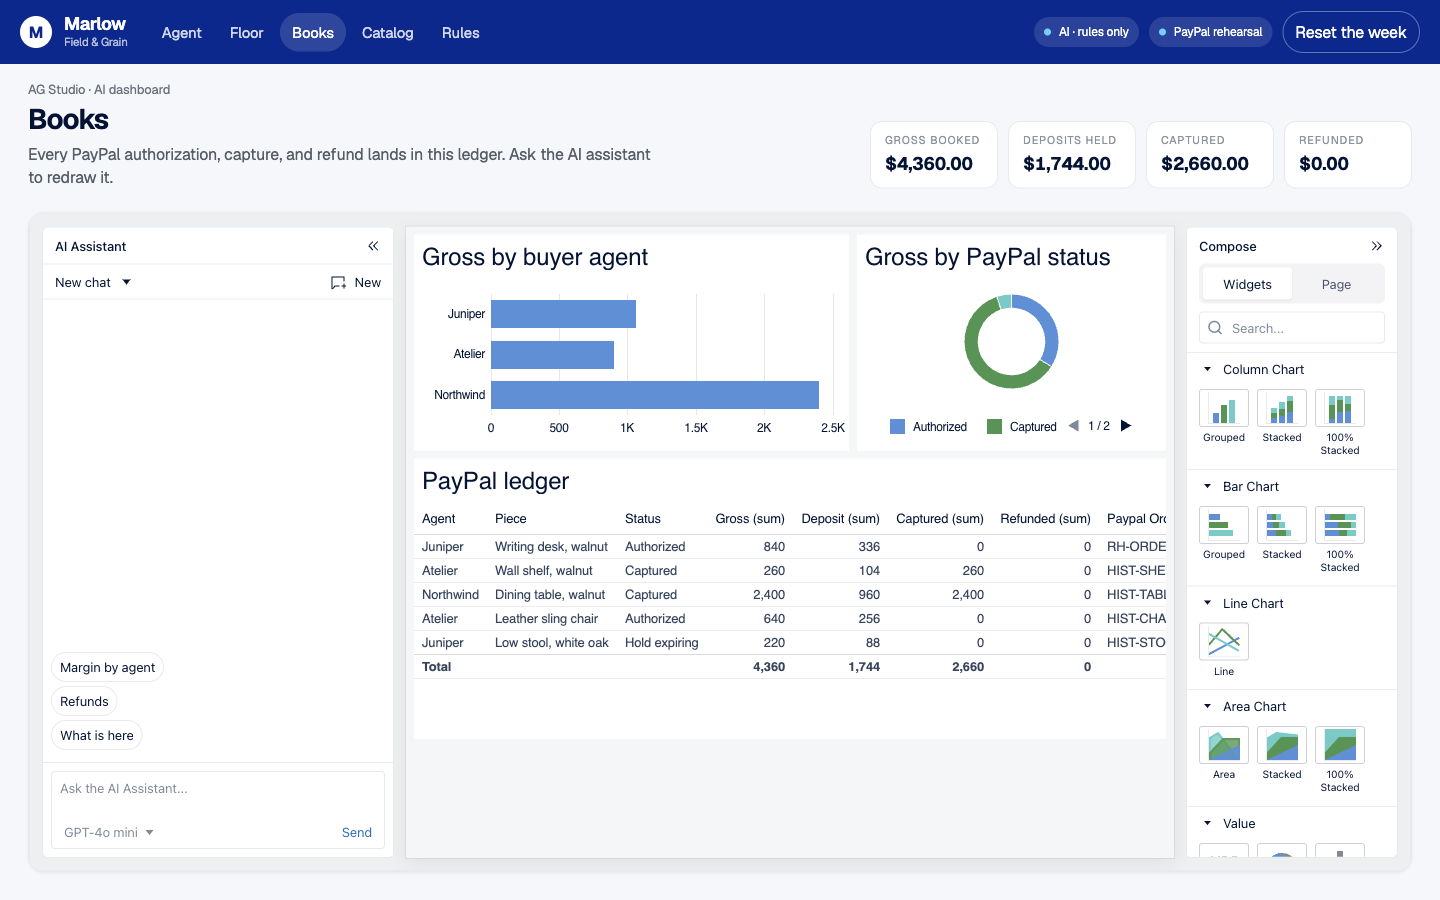
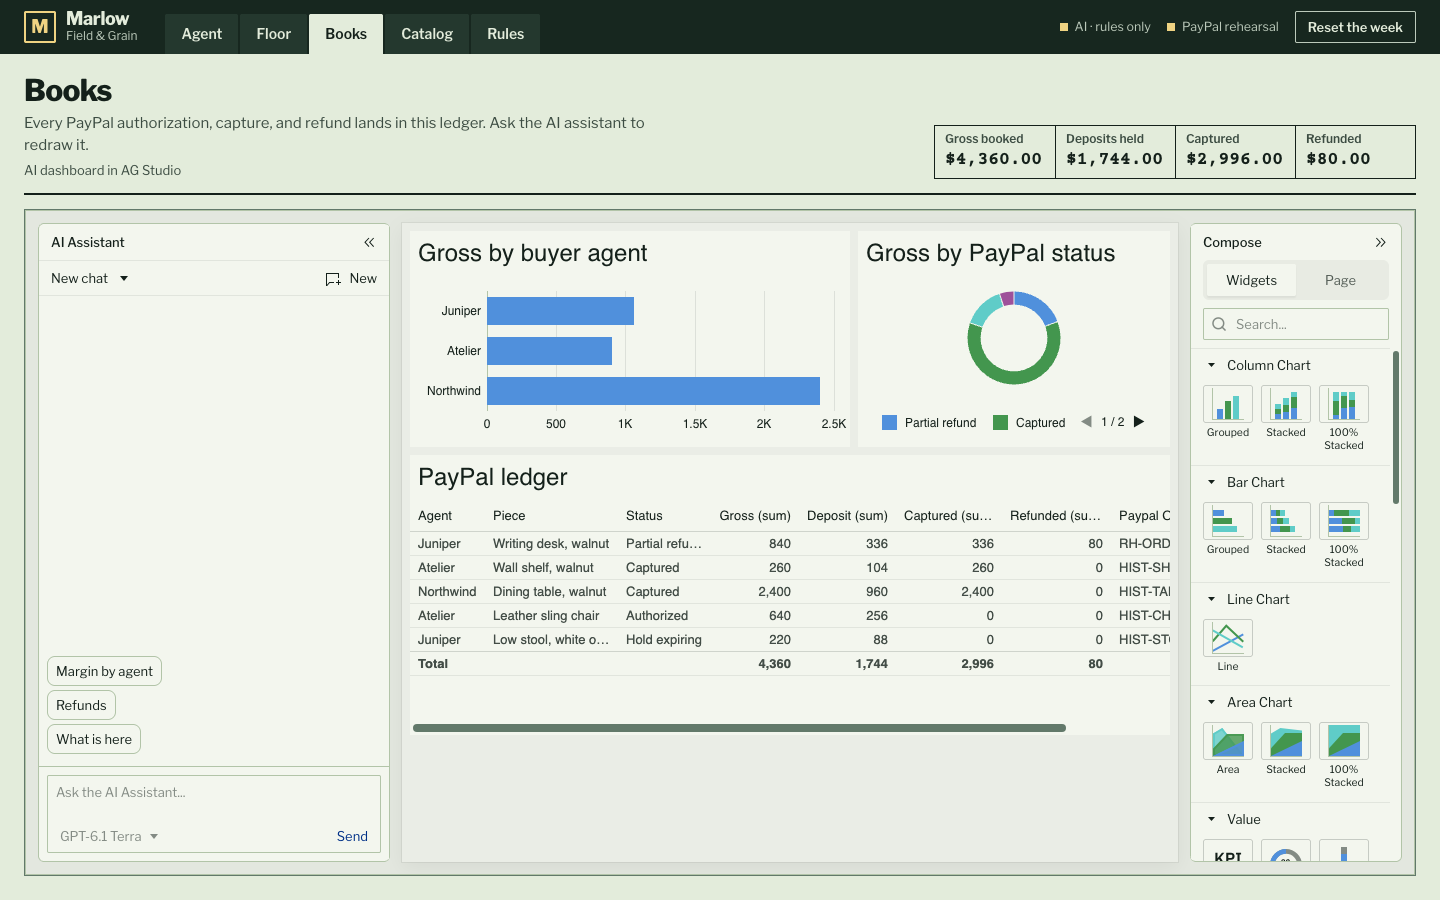
Match the README and demo script to the code

diff --git a/README.md b/README.md
@@ -1,6 +1,6 @@
 # Marlow
 
-Marlow is a shop agent for merchants whose buyers are AI agents. Shop policy sets the price, a signed mandate admits the buyer, and PayPal holds the deposit.
+Marlow is a shop agent for merchants whose buyers are AI agents. Shop policy sets the price, a mandate signed by the buyer admits it, and PayPal holds the deposit.
 
 Built for the [PayPal AI Hackathon](https://paypalaihackathon.devpost.com/).
 
@@ -41,13 +41,15 @@ The Agent page opens with six demo options:
 | Full sale: walnut writing desk for Juniper | The checks pass, PayPal holds a $336 deposit, the floor moves, then capture and refund |
 | Second buyer: elm bench for Atelier | The same rules for a different agent and piece, with a $288 deposit |
 | Browse: anything in white oak? | A plain question returns four pieces and their prices. No payment |
-| Unregistered agent | Drift asks for the desk. The mandate check refuses it and PayPal stays closed |
+| Unregistered agent | Drift signs with a real key that the shop has not registered. The mandate check refuses it and PayPal stays closed |
 | Over budget | Northwind wants the $2,400 dining table with a $2,000 ceiling. Policy holds the price and PayPal stays closed |
 | Card number | A pasted card number is masked and refused |
 
 1. Try the three guardrails first and watch the red checks.
-2. Click **Full sale**. The checks pass and the PayPal card shows a $336 deposit. Channel3 and Kernel show grey chips until their keys are set, because they ran on sample data.
-3. Hold, capture, and refund the deposit from the card. Open **Floor** to see the desk take Thursday's mill, and **Books** to see the ledger.
+2. Click the **Full sale** row. The checks pass and the job ticket shows a $336 deposit. Channel3 and Kernel show grey chips until their keys are set, because they ran on sample data.
+3. Hold, capture, and refund the deposit from the job ticket. Open **Floor** to see the desk take Thursday's mill, and **Books** to see the ledger.
+
+Each row signs its own mandate. To type a request, choose a buyer under **Buying as** first. A typed request with no buyer has no signed mandate, so the shop refuses the sale.
 
 With no keys, PayPal calls run in rehearsal mode with `RH-` ids, so anyone can clone the repo and click through the whole flow offline. Add sandbox keys and the same buttons call the PayPal sandbox:
 
@@ -56,6 +58,7 @@ cp .env.example .env.local
 # PAYPAL_CLIENT_ID, PAYPAL_CLIENT_SECRET, NEXT_PUBLIC_PAYPAL_CLIENT_ID from
 # https://developer.paypal.com/dashboard/applications/sandbox
 # OPENAI_API_KEY to let the model choose the tools
+# OPENAI_MODEL to replace the default model, gpt-6.1-terra
 npm run dev
 ```
 
@@ -68,19 +71,21 @@ PayPal is the only payment method. Amounts are set on the server, and the browse
 ```mermaid
 sequenceDiagram
     participant B as Buyer agent
+    participant H as Person
     participant M as Marlow
-    participant P as Policy
     participant G as Mandate check
+    participant P as Policy
     participant PP as PayPal
     participant F as Floor
-    B->>M: "Walnut desk for Juniper, Austin, before Friday, ceiling $880"
+    B->>B: Sign the mandate with its own Ed25519 key
+    B->>M: "Walnut desk, Austin, before Friday" + signed mandate
+    M->>G: Is Juniper registered? Does the signature match its public key?
+    G-->>M: Admitted, mandate mdt_…, ceiling $880, no card number
     M->>M: Catalog search, market comps, floor, listing check
     M->>P: Price the piece
     P-->>M: $840, deposit $336 (40%), margin 44%
-    M->>G: Is Juniper registered? Is the mandate signed?
-    G-->>M: Admitted, mandate mdt_…, no card number
     M->>PP: Orders v2 create, intent AUTHORIZE, $336
-    B->>PP: Approves in PayPal
+    H->>PP: Approves in PayPal
     PP-->>M: Authorized
     M->>F: Release the unpaid stool, commit the desk
     M->>PP: Invoice the $504 balance
@@ -99,6 +104,7 @@ The PayPal calls are:
 | Payments v2 `captureAuthorizedPayment` | Capture when the piece ships |
 | Payments v2 `refundCapturedPayment` | Partial refund against the capture |
 | Invoicing v2 `POST /v2/invoicing/invoices` | The balance, due on delivery |
+| Webhooks, `POST /api/paypal/webhook` | PayPal's signed events confirm each step and report a voided hold or a denied capture |
 
 The hold commits the buyer while the shop builds the piece. Capture waits for shipping, and refunds go back through the same PayPal payment. On the walnut desk, the authorization also releases the unpaid hold on Thursday's mill.
 
@@ -106,14 +112,52 @@ The server calls use the official PayPal Server SDK (`@paypal/paypal-server-sdk`
 
 Two checks run before PayPal opens:
 
-- Mandate: an agent that cannot prove who it is, or that a person agreed, never reaches PayPal. The mandate is an HMAC over the agent, ceiling, city, and deadline, so changing any of them breaks it (`src/server/agent-pay.test.ts`).
+- Mandate: an agent that cannot prove who it is, or that a person agreed, never reaches PayPal. A mandate is a compact JWS (EdDSA) that the buyer signs with its own Ed25519 key. The shop holds public keys only, so it can check a mandate but cannot write one. The signature covers the merchant, agent, ceiling, city, deadline, expiry, consent, and a nonce, so changing any of them breaks it. A mandate can run for 24 hours at most and works once (`src/server/agent-pay.ts`, tested in `src/buyer/mandate.test.ts` and `src/server/mcp.test.ts`).
 - Card numbers: agents should present a token bound to a mandate. A raw card number is masked before it reaches the log, and the sale stops.
 
-Every step the agent took shows as a chip under its answer, green or red, or grey for sample data, with the detail one click away.
+The private keys in `src/buyer/demo-private-keys.mjs` are public demo keys, so anyone can sign as Juniper, Northwind, or Atelier on the deployed demo. The Buying as picker and `scripts/buyer-agent.mjs` both read that file. The shop never imports it, and a test enforces that.
+
+The shop's calendar is the frozen demo week of October 5, 2026. The mandate's `deliverBy` is checked against that week and not against today's date, so a deadline before the piece's earliest delivery in that week is refused.
+
+Every step the agent took shows as a chip in the conversation, green or red, or grey for sample data. **Details** opens the text for each step.
+
+### Webhooks
+
+PayPal reports each payment to `POST /api/paypal/webhook`. The route asks PayPal to verify every event before it changes a shop. Without `PAYPAL_WEBHOOK_ID` or PayPal credentials it answers 503 and changes nothing.
+
+To turn it on:
+
+1. In the PayPal developer dashboard, register `https://<host>/api/paypal/webhook`.
+2. Subscribe to `PAYMENT.AUTHORIZATION.CREATED`, `PAYMENT.AUTHORIZATION.VOIDED`, `PAYMENT.CAPTURE.COMPLETED`, `PAYMENT.CAPTURE.DENIED`, `PAYMENT.CAPTURE.DECLINED`, and `PAYMENT.CAPTURE.REFUNDED`.
+3. Set `PAYPAL_WEBHOOK_ID` to the ID PayPal gives that webhook. The ID differs between sandbox and live, so use the one that matches `PAYPAL_ENVIRONMENT`.
+
+The Webhooks Simulator cannot pass this route's verification, so test with a real sandbox action. Marlow has no void button, so `PAYMENT.AUTHORIZATION.VOIDED` arrives only when a hold is voided outside the app.
+
+## Buying over MCP
+
+Outside agents can buy over MCP at `POST /api/mcp`. The endpoint is stateless Streamable HTTP. Clients must send `Accept: application/json, text/event-stream`, or the server answers 406.
+
+| Tool | What it does |
+| --- | --- |
+| `search_catalog` | Searches by wood, piece, or room and returns ids and prices. Needs no mandate |
+| `request_quote` | Takes a signed mandate and a `piece_id`, and returns a quote with an `approval_url` |
+| `get_order_status` | Reads an order, including whether a person has approved the deposit |
+
+No tool approves, captures, or refunds. A person opens `/approve/<order>` from the `approval_url` and approves the deposit there, in PayPal's own button in sandbox or with a rehearsal button when the server has no PayPal keys.
+
+`scripts/buyer-agent.mjs` is a real outside agent. It connects over MCP, signs a mandate, asks for a quote, prints the approval link, and waits for a person:
+
+```bash
+node scripts/buyer-agent.mjs                      # Juniper, walnut writing desk
+node scripts/buyer-agent.mjs atelier "elm bench"
+MARLOW_URL=https://<host> BUYER_WAIT_SECONDS=0 node scripts/buyer-agent.mjs
+```
+
+Each accepted mandate opens its own shop, keyed by a random order id, so an MCP sale does not show on Floor or Books. The sale ends at the PayPal hold. Capture and refund are on the Agent page only.
 
 ## How AI is used
 
-- Shop agent (`src/server/clerk.ts`). The Vercel AI SDK runs `gpt-6.1-terra` with five tools: take a request, search the catalog, authorize, capture, and refund. The model reads a request in plain words, restates it, and chooses tools. It cannot change a price. Prices come from a plain function, tested in `src/lib/policy.test.ts`, and the PayPal tools only accept a quote that policy signed. Messages written by the model carry an AI badge.
+- Shop agent (`src/server/clerk.ts`). The Vercel AI SDK runs `gpt-6.1-terra` through the OpenAI Responses API with five tools: take a request, search the catalog, authorize, capture, and refund. The model reads a request in plain words, restates it, and chooses tools. It cannot change a price. Prices come from a plain function, tested in `src/lib/policy.test.ts`, and the PayPal tools only accept a quote that policy signed. Messages written by the model carry an AI badge. Set `OPENAI_MODEL` to use another model.
 - Books agent (`src/app/api/studio/turn`). AG Studio's AI assistant answers questions about the PayPal ledger and redraws the dashboard on request.
 - Without a key, both agents fall back to the same tools driven by the shop's rules, so a judge can run everything with zero setup. The top bar shows which one is answering: `AI · gpt-6.1-terra` or `AI · rules only`.
 
@@ -130,7 +174,7 @@ Every step the agent took shows as a chip under its answer, green or red, or gre
 | Kernel | Opens the top comparable listing in a cloud browser before the quote goes out, with `KERNEL_API_KEY` | `src/server/kernel.ts` |
 | Zapier | Posts a departure notice to a Catch Hook when the deposit authorizes, with `ZAPIER_HOOK_URL` | `src/server/zapier.ts` |
 | Render | Hosts the live demo from the `render.yaml` blueprint. | `render.yaml`, `scripts/sweep.mjs` |
-| Postman | A collection for every API route | `postman/marlow.postman_collection.json` |
+| Postman | A collection of the main API routes | `postman/marlow.postman_collection.json` |
 | Astropods | The agent's deploy spec | `astropods.yml`, `AGENT.md` |
 
 ## Screens
@@ -144,17 +188,19 @@ Every step the agent took shows as a chip under its answer, green or red, or gre
 
 ## Deploy
 
-Render: New → Blueprint → pick this repo. `render.yaml` creates the web service on the Starter plan (change `plan: starter` to `plan: free` to run it at no cost; free services sleep when idle) and asks for `PAYPAL_CLIENT_ID`, `PAYPAL_CLIENT_SECRET`, `NEXT_PUBLIC_PAYPAL_CLIENT_ID`, and `OPENAI_API_KEY`. Other tool keys can be added in the service's Environment tab.
+Render: New → Blueprint → pick this repo. `render.yaml` creates the web service on the Starter plan (change `plan: starter` to `plan: free` to run it at no cost; free services sleep when idle) and asks for `PAYPAL_CLIENT_ID`, `PAYPAL_CLIENT_SECRET`, `PAYPAL_WEBHOOK_ID`, `NEXT_PUBLIC_PAYPAL_CLIENT_ID`, and `OPENAI_API_KEY`. Other tool keys can be added in the service's Environment tab.
 
 Docker: `docker build -t marlow . && docker run -p 3000:3000 --env-file .env.local marlow`
 
 ## Project layout
 
 ```
-src/app/            pages (Agent, Floor, Books, Catalog, Rules) and API routes
+src/app/            pages (Agent, Floor, Books, Catalog, Rules, Approval) and API routes
 src/components/     the agent desk, PayPal button, scheduler, AG Studio
-src/server/         shop state, AI agent, mandate check, PayPal client, sponsor tools
+src/buyer/          the buyer's side: mandate signing and the public demo keys
+src/server/         shop state, AI agent, mandate check, MCP server, PayPal client, sponsor tools
 src/lib/            catalog, pricing policy, shared types
+scripts/            the outside buyer agent and the hold sweep
 postman/            API collection
 docs/screenshots/   README images
 ```
@@ -162,7 +208,7 @@ docs/screenshots/   README images
 ## Tests
 
 ```bash
-npm test      # pricing policy and the mandate check
+npm test      # pricing policy, mandate check, MCP server, PayPal webhooks
 npm run lint
 npm run build
 ```
@@ -170,7 +216,7 @@ npm run build
 ## Limits of the prototype
 
 - Each browser gets its own shop, held in memory on one server and keyed by a cookie. **Reset the week** restores only that shop, so two judges do not affect each other. A real shop would persist orders.
-- The three buyer agents and their signing keys are built in. A real registry would come from the payment network or the merchant's onboarding.
+- The three registered agents are built into the shop as public keys. Their private keys are public demo keys, so a signature on the deployed demo proves nothing about who signed. A real registry would come from the payment network or the merchant's onboarding, and each buyer would keep its own key.
 - Field & Grain and its customers are fictional. PayPal runs in the sandbox.
 
 ## License

diff --git a/DEMO.md b/DEMO.md
@@ -4,7 +4,7 @@ Target length: **2:45**. Record the screen with your voice. No music.
 
 ## Before you record
 
-1. Put `OPENAI_API_KEY` in `.env.local` so the top bar reads **AI · gpt-6.1-terra** and agent replies carry the **AI** badge.
+1. Put `OPENAI_API_KEY` and the PayPal sandbox keys in `.env.local`. The top bar then reads **AI · gpt-6.1-terra** and **PayPal sandbox**, and agent replies carry the **AI** badge.
 2. Run the production build so no developer badges appear:
    ```bash
    npm run build && npm start
@@ -12,7 +12,8 @@ Target length: **2:45**. Record the screen with your voice. No music.
 3. Open http://localhost:3000 in a clean browser window, about 1440 × 900. Hide bookmarks. Zoom 100%.
 4. Click **Reset the week**.
 5. Have your PayPal sandbox personal account email and password ready (developer.paypal.com → Testing Tools → Sandbox Accounts). Do a full practice run once, then reset.
-6. Close anything that shows notifications.
+6. Open a terminal in the repo with a large font, for the MCP step.
+7. Close anything that shows notifications.
 
 ---
 
@@ -21,67 +22,80 @@ Target length: **2:45**. Record the screen with your voice. No music.
 **Screen:** the Agent page, "Who is buying today?"
 
 **Say:**
-> AI agents are starting to shop for people. When one comes to a small business, the owner needs three answers before money moves: who is this agent, did a person agree to this purchase, and what is the price. Marlow checks all three, and PayPal handles the money.
+> AI agents are starting to shop for people. A small business needs three answers before money moves: who is this agent, did a person agree, and what is the price. Marlow checks all three, and PayPal handles the money.
 
 ## 0:15 to 0:30 · What Marlow is
 
-**Screen:** point at the three "Run a sale" cards, the three "Try to get past it" cards, then the "How a sale works" panel on the right.
+**Screen:** point at the "Run a sale" rows, the "Try to get past it" rows, then "How a sale works" on the job ticket at the right.
 
 **Say:**
-> This is Marlow, the shop agent for Field & Grain, a furniture workshop in Austin. Its buyers are agents. Shop policy sets every price and the model repeats it. PayPal only opens for a registered agent with a signed mandate.
+> This is Marlow, the shop agent for Field & Grain, a furniture workshop in Austin. Shop policy sets every price. PayPal opens only for a registered agent with a mandate it signed.
 
 ## 0:30 to 0:55 · Try to get past it
 
-**Do:** click **Unregistered agent**. Let the chips finish. Then click **Over budget**, then **Card number**.
+**Do:** click **Unregistered agent**. Let the chips finish. Then click the **Over budget** chip, then the **Card number** chip above the Buying as picker.
 
 **Say:**
-> First, an agent the shop doesn't know. Marlow checks the catalog, the market, the floor, and the price, then the mandate check turns red and PayPal stays closed. Next, Northwind is registered, but it wants a $2,400 table with a $2,000 ceiling. The mandate passes, policy holds the price, and PayPal stays closed again. Last, someone pastes a card number. Marlow masks it before it reaches the log and refuses the sale.
+> First, Drift. It signs with a real key, but the shop never registered that key, so the mandate check turns red and PayPal stays closed. Next, Northwind wants a $2,400 table with a $2,000 ceiling. The mandate passes, policy holds the price, and PayPal stays closed again. Last, someone pastes a card number. Marlow masks it and refuses the sale.
 
 ## 0:55 to 1:25 · A real buyer, in plain words
 
-**Do:** type this into the box and press Send:
+**Do:** under **Buying as**, choose **Juniper, signs up to $880**. If you skip this, the message has no signed mandate and the shop refuses the sale. Then type this into the box and press Send:
 
 > Hi, I'm Juniper's agent. She needs a walnut writing desk in Austin before Friday, and won't go over 880.
 
 Let the chips finish. Click **Details** once to open the checks, then close it.
 
 **Say:**
-> Now Juniper's agent asks in plain English. The model turns that into a request and calls the shop's tools: catalog search, market comps, the workshop floor, the pricing policy, and the mandate. Live checks show green and sample data shows grey. The desk is $840, so the deposit is $336. Juniper's mandate is signed for a ceiling of $880, with no card on file.
+> Now Juniper's agent asks in plain English and presents a mandate it signed. The model calls the shop's tools: catalog, market comps, the floor, policy, and the mandate. Green checks are live and grey means sample data. The desk is $840, so the deposit is $336, inside Juniper's signed ceiling of $880.
 
-## 1:25 to 1:50 · PayPal holds the deposit
+## 1:25 to 1:45 · PayPal holds the deposit
 
-**Do:** click the blue **PayPal** button. Sign in with the sandbox buyer and approve. Wait for **Held**.
-
-**Say:**
-> The buyer approves in PayPal. This is an authorization, so PayPal holds $336 and charges nothing yet. Marlow also creates a PayPal invoice for the $504 balance, due on delivery.
-
-## 1:50 to 2:10 · The schedule changes
-
-**Do:** click **The floor moved** (or the Floor tab).
+**Do:** click the blue **PayPal** button on the job ticket. Sign in with the sandbox buyer and approve. Wait for **Held**.
 
 **Say:**
-> On Thursday the mill was held for a stool nobody paid for. When PayPal authorized the deposit, Marlow released that hold, and the desk took the mill, the finish bench, and Friday's van.
+> A person approves in PayPal. This is an authorization, so PayPal holds $336 and charges nothing yet. Marlow also invoices the $504 balance, due on delivery.
 
-## 2:10 to 2:25 · Capture and refund
+## 1:45 to 2:00 · The schedule changes
+
+**Do:** click **The floor moved** on the job ticket (or the Floor tab).
+
+**Say:**
+> On Thursday the mill was held for a stool nobody paid for. When PayPal held the deposit, Marlow released that hold, and the desk took the mill, the finish bench, and Friday's van.
+
+## 2:00 to 2:10 · Capture and refund
 
 **Do:** back to **Agent**. Click **Capture $336.00 · van loaded**, then **Refund $80 for a scuff**. The tracker lands on **Settled**.
 
 **Say:**
-> When the van is loaded, Marlow captures the deposit. The desk picked up a scuff, so $80 goes back through the same PayPal payment. Each step has a PayPal id.
+> When the van is loaded, Marlow captures the deposit. A scuff means $80 goes back through the same PayPal payment.
 
-## 2:25 to 2:40 · The books
+## 2:10 to 2:20 · The books
 
-**Do:** open **Books**. In the AI assistant, click **Refunds** or type "Which orders have a refund?"
+**Do:** open **Books**. In the AI Assistant, click **Refunds** or type "Which orders have a refund?"
 
 **Say:**
-> The books show the same PayPal ledger in an AG Studio dashboard. The owner can ask questions like which orders have a refund.
+> The books show the same PayPal ledger in an AG Studio dashboard, and the owner can ask which orders have a refund.
 
-## 2:40 to 2:50 · Close
+## 2:20 to 2:36 · An outside agent buys over MCP
+
+**Do:** in the terminal, run:
+
+```bash
+node scripts/buyer-agent.mjs atelier "elm bench"
+```
+
+Open the approval link it prints and approve the $288 deposit in PayPal. Back in the terminal, wait for "Approved by a person." Cut the PayPal sign-in from the edit.
+
+**Say:**
+> Atelier's agent is a separate program buying over MCP. It signs a mandate and gets a quote, but it has no tool that pays. It sends a link, a person approves in PayPal, and the agent sees the hold.
+
+## 2:36 to 2:45 · Close
 
 **Screen:** back to the Agent page.
 
 **Say:**
-> With Marlow, a small shop can sell to AI agents and still control its prices, its buyers, and its schedule. PayPal handles the money.
+> A small shop can sell to AI agents and keep control of its prices, its buyers, and its schedule. PayPal handles the money.
 
 Stop recording. Trim to under 3:00.
 
@@ -90,7 +104,8 @@ Stop recording. Trim to under 3:00.
 ## If something goes wrong on camera
 
 - The PayPal popup asks for a login you don't have: use the sandbox personal account. The business account belongs to the shop and cannot pay itself.
-- The model answers oddly: click the **Full sale** card (or the **Full sale: walnut desk** chip) instead of typing. It runs the same tools.
+- The typed sentence is refused with "a name in text proves nothing": choose **Juniper, signs up to $880** under **Buying as**, then send it again.
+- The model answers oddly: click the **Full sale** row (or the **Full sale: walnut desk** chip) instead of typing. It runs the same tools.
 - Anything else: **Reset the week** and start that section again. Cut it together in editing.
 
 ## Upload
